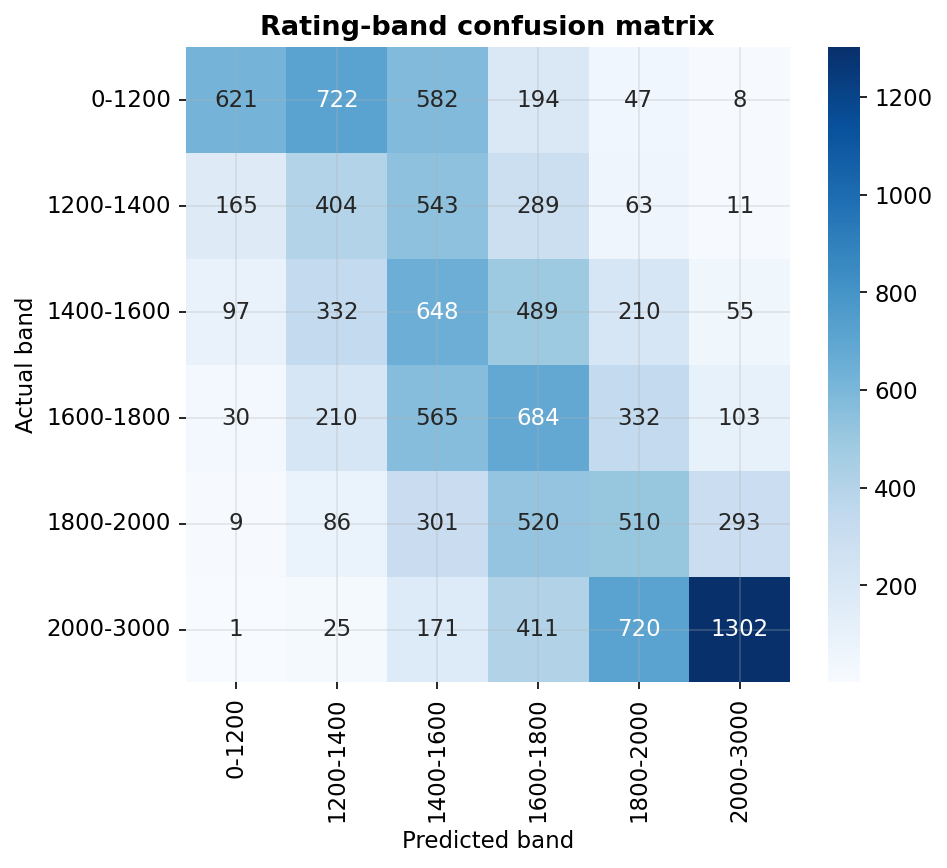
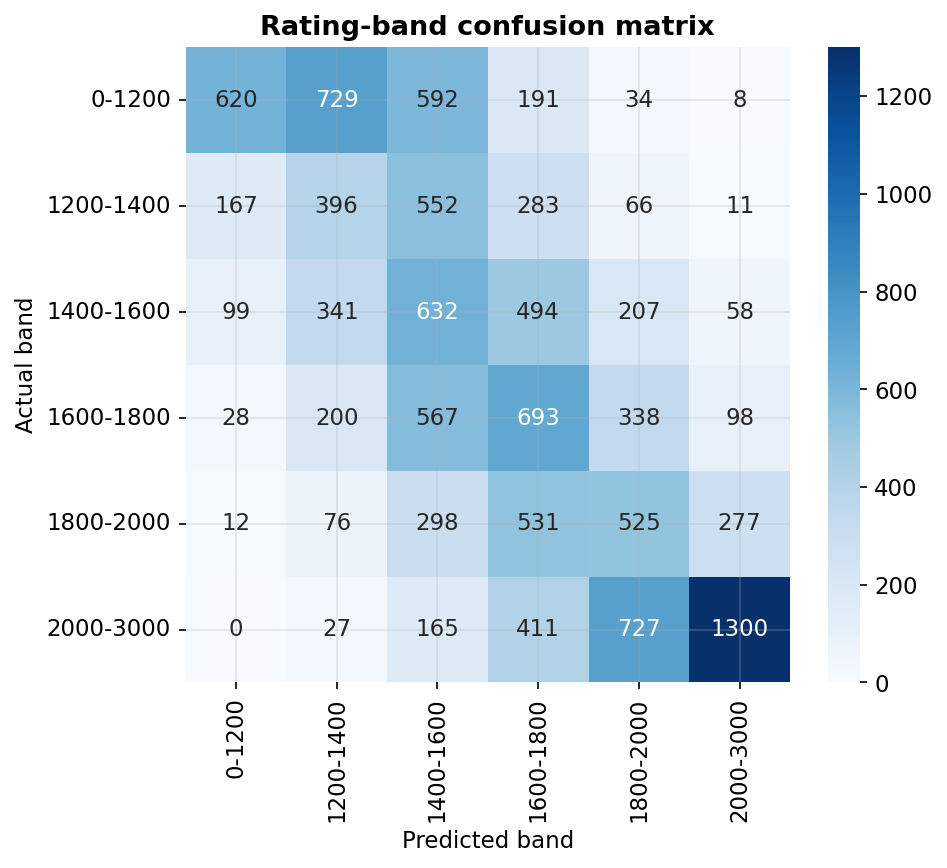
exp: tuned improved model (Optuna) on 2025-05 sample + limitations caveats
Optuna (25 trials, grouped-CV MAE) tuned the full model on the 29,431-game sample:
- + engine/clock 241.2 -> + tuned 239.5 MAE (RMSE 301.5). The engine features remain the
  dominant gain; tuning adds a small increment.
- 90% interval coverage 83.9%, band 35.4% exact / 75.6% adjacent, aggregation MAE 236 -> 222.

Regenerates reports/figures/*.png from the tuned model and appends the tuned block to
reports/results.md. README: add aggregation-curve cohort and interval-calibration
(under-coverage -> CQR) caveats to Limitations.

diff --git a/README.md b/README.md
@@ -186,4 +186,10 @@ must run top-to-bottom (Restart & Run All) before they're considered done.
   drop provisional-rated (noisier) labels from the dump. Recorded so the intent is explicit.
 - **Single-game noise floor:** one blitz game can't pin a rating; precision comes from aggregating
   across a player's games. This is a finding, not a bug.
+- **Aggregation-curve cohort:** a uniform *game* sample has few players with many games, so each K in
+  the aggregation curve is a different, shrinking cohort (higher-K points are noisier and not
+  apples-to-apples). Backlog: a player-stratified sample (pick players, take all their games) would
+  give a cleaner, monotone curve.
+- **Interval calibration:** the raw 90% quantile interval under-covers (~85% empirically); backlog is
+  conformalized quantile regression (CQR) to recalibrate width for guaranteed marginal coverage.
 - **Scope:** blitz only; results may not transfer to rapid/classical.

diff --git a/reports/results.md b/reports/results.md
@@ -30,3 +30,17 @@ n_train=37802, n_test=11753, n_features=65
 - band accuracy: 35.5% exact, 75.3% adjacent
 - aggregation MAE: K1=237, K2=215, K3=222, K5=222, K10=224
 - ablation (MAE↑ when dropped): engine +31.4, style +10.9, clock +8.1, opening +7.6
+
+## 2026-07-03 00:58 — improved model (tuned)
+n_train=37802, n_test=11753, n_features=65
+
+| stage | MAE | RMSE |
+|---|---|---|
+| no-engine baseline | 287.8 | — |
+| + engine/clock | 241.2 | 304.2 |
+| + tuned | 239.5 | 301.5 |
+
+- 90% interval coverage: **83.9%** (width 913 Elo)
+- band accuracy: 35.4% exact, 75.6% adjacent
+- aggregation MAE: K1=236, K2=213, K3=221, K5=220, K10=222
+- ablation (MAE↑ when dropped): engine +31.4, style +10.9, clock +8.1, opening +7.6
